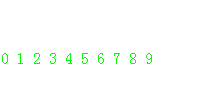
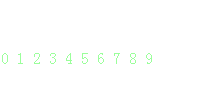
perf: optimize drawColor method perf

diff --git a/lib/pnglib.js b/lib/pnglib.js
@@ -22,6 +22,8 @@ var _font2 = _interopRequireDefault(_font);
 
 function _interopRequireDefault(obj) { return obj && obj.__esModule ? obj : { default: obj }; }
 
+function _toConsumableArray(arr) { if (Array.isArray(arr)) { for (var i = 0, arr2 = Array(arr.length); i < arr.length; i++) { arr2[i] = arr[i]; } return arr2; } else { return Array.from(arr); } }
+
 function _classCallCheck(instance, Constructor) { if (!(instance instanceof Constructor)) { throw new TypeError("Cannot call a class as a function"); } }
 
 var PNGlib = function () {
@@ -160,6 +162,12 @@ var PNGlib = function () {
       var idx = font.fonts.indexOf(ch);
 
       if (idx >= 0) {
+        var rgba = color;
+        // 预解析颜色，避免在setPixel中进行频繁的解析操作
+        if (typeof color === 'string') {
+          rgba = (0, _rgba3.default)(color);
+        }
+
         var fontData = font.data[idx];
         var w = font.w;
         var y0 = y;
@@ -180,7 +188,7 @@ var PNGlib = function () {
             for (var bitPos = width - 1; bitPos >= 0; --bitPos) {
               mask = 1 << bitPos;
               if ((d & mask) === mask) {
-                this.setPixel(x + x0 + (8 - bitPos), y0, color);
+                this.setPixel(x + x0 + (8 - bitPos), y0, rgba);
               }
             }
           }
@@ -192,7 +200,15 @@ var PNGlib = function () {
     key: 'setPixel',
     value: function setPixel(x, y, rgba) {
       if (x < 0 || y < 0 || x >= this.width || y >= this.height) return;
-      this.buffer[this.index(x | 0, y | 0)] = this.color(rgba);
+
+      var color = void 0;
+      if (Array.isArray(rgba)) {
+        color = this.color.apply(this, _toConsumableArray(rgba));
+      } else {
+        color = this.color(rgba);
+      }
+
+      this.buffer[this.index(x | 0, y | 0)] = color;
     }
 
     // output a PNG string, Base64 encoded

diff --git a/src/pnglib.js b/src/pnglib.js
@@ -120,6 +120,12 @@ class PNGlib {
     let idx = font.fonts.indexOf(ch);
 
     if (idx >= 0) {
+      let rgba = color;
+      // 预解析颜色，避免在setPixel中进行频繁的解析操作
+      if (typeof color === 'string') {
+        rgba = RGBA(color);
+      }
+
       let fontData = font.data[idx];
       let w = font.w;
       let y0 = y;
@@ -140,7 +146,7 @@ class PNGlib {
           for (let bitPos = width - 1; bitPos >= 0; --bitPos) {
             mask = 1 << bitPos;
             if ((d & mask) === mask) {
-              this.setPixel(x + x0 + (8 - bitPos), y0, color);
+              this.setPixel(x + x0 + (8 - bitPos), y0, rgba);
             }
           }
         }
@@ -151,7 +157,15 @@ class PNGlib {
 
   setPixel(x, y, rgba) {
     if (x < 0 || y < 0 || x >= this.width || y >= this.height) return;
-    this.buffer[this.index(x | 0, y | 0)] = this.color(rgba);
+
+    let color;
+    if (Array.isArray(rgba)) {
+      color = this.color(...rgba);
+    } else {
+      color = this.color(rgba);
+    }
+
+    this.buffer[this.index(x | 0, y | 0)] = color;
   }
 
   // output a PNG string, Base64 encoded

diff --git a/example/char.js b/example/char.js
@@ -10,7 +10,8 @@ for (let i = 0; i < 10; ++i) {
   const font = PNGlib.font8x16;
   let ch = String(i);
   console.log(ch);
-  png.drawChar(ch, 0 + 2 * i * font.w, 50, font, '#00FF00');
+  // png.drawChar(ch, 0 + 2 * i * font.w, 50, font, '#00FF00');
+  png.drawChar(ch, 0 + 2 * i * font.w, 50, font, [0, 255, 0, 100]);
 }
 
 fs.writeFileSync(path.resolve(__dirname, './char.png'), png.getBuffer());
